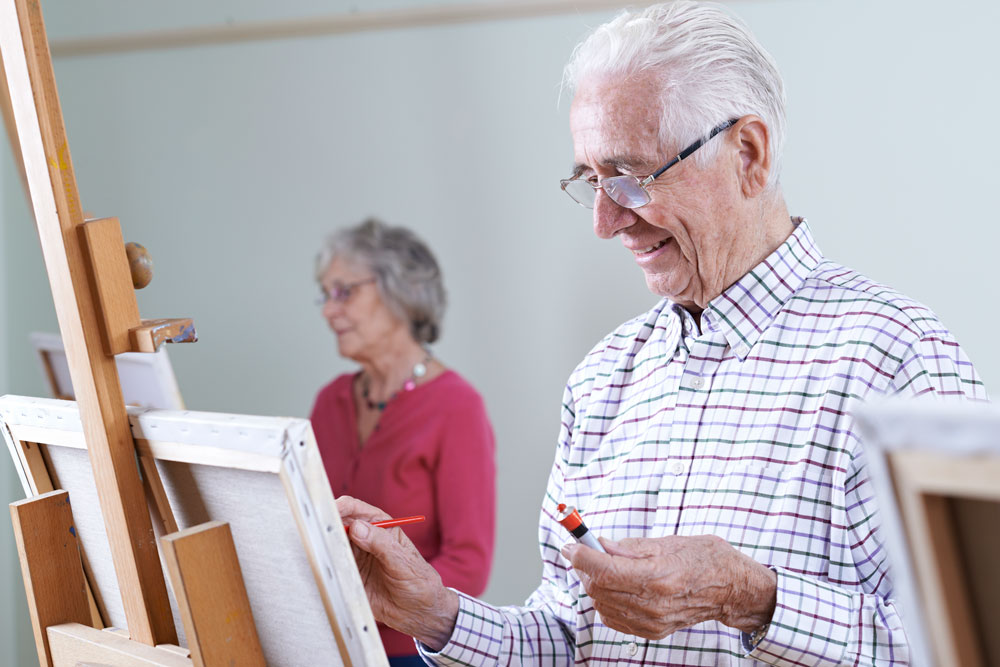
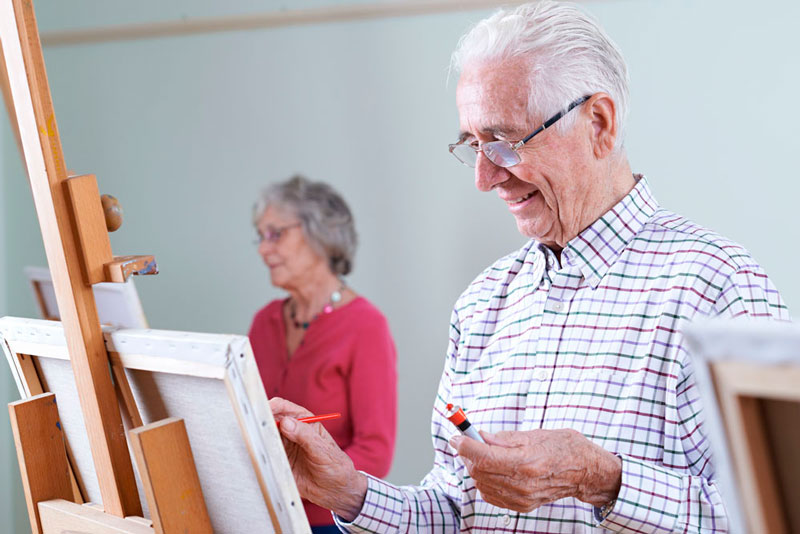
Smaller images and fixes

diff --git a/script.js b/script.js
@@ -96,10 +96,10 @@ function showCat7() {
 
 // Create events and load into localStorage if empty
 
-function createEvents() {
+function createEvents(number) {
   console.log("Creating events.");
   // Event data going to localStorage:
-  var event1 = [0,'Info-aften om det nye Kulturhus ved Filsø','Vrøgum får et nyt samlingspunkt. Kom med og hør, hvad planerne er for det nye Kulturhus ved Filsø.','long desc','assets/img/gl.skole.jpg',1550340000000,1550345400000,'Skovsalen',false,false,5,0,0];
+  var event1 = [0,'Info-aften om det nye Kulturhus ved Filsø','Vrøgum får et nyt samlingspunkt. Kom med og hør, hvad planerne er for det nye Kulturhus ved Filsø.','long desc','assets/img/vroegumglskole.jpg',1550340000000,1550345400000,'Skovsalen',false,false,5,0,0];
   var event2 = [1,'Hus og have-dag: Værkstedet','Vær med til at forvandle Vrøgum Gl. Skole til et skønt samlingssted for dig og dine naboer.','<p>Udviklingsudvalget i Vrøgum Borger- og Idrætsforening søger kvikke, hjælpende hænder til lettere istandsættelse og opfriskning af det nye Kulturhus ved Filsø &ndash; de dejlige bygninger, vi I dag kender som Vrøgum Gl. Skole.</p><p>Programmet for dagen er som følger:</p><ul><li>Kl. 8.30 i gymnastiksalen præsenterer vi vores vision og den praktiske plan for det nye Kulturhus ved Filsø.</li><li>Herefter fordeles alle frivillige hjælpere på de opgaver, der skal klares</p><p>Alle frivillige hjælpere får mad og forplejning dagen igennem. Vi serverer rundstykker med syltetøj og pålæg kl. 9.00 og æggekage med stegt flæsk og rugbrøg kl. 13.00. Dagen igennem er der fri vand og kaffe til de arbejdende.</p><p>Tusind tak for støtte og opbakning til dette spændende nye Kulturhus-projekt, der skal sikre at Vrøgum også i fremtiden forbliver Danmarks hyggeligste landsby.</p>','assets/img/kulturhuset-filsoe_hus-have-dag-02.jpg',1551511800000,1551535200000,'Kulturhuset',false,false,3,0,0];
   var event3 = [2,'Hus og have-dag: Forhaven','Vær med til at forvandle Vrøgum Gl. Skole til et skønt samlingssted for dig og dine naboer.','<p>Udviklingsudvalget i Vrøgum Borger- og Idrætsforening søger kvikke, hjælpende hænder til lettere istandsættelse og opfriskning af det nye Kulturhus ved Filsø &ndash; de dejlige bygninger, vi I dag kender som Vrøgum Gl. Skole.</p><p>Programmet for dagen er som følger:</p><ul><li>Kl. 8.30 i gymnastiksalen præsenterer vi vores vision og den praktiske plan for det nye Kulturhus ved Filsø.</li><li>Herefter fordeles alle frivillige hjælpere på de opgaver, der skal klares</p><p>Alle frivillige hjælpere får mad og forplejning dagen igennem. Vi serverer rundstykker med syltetøj og pålæg kl. 9.00 og æggekage med stegt flæsk og rugbrøg kl. 13.00. Dagen igennem er der fri vand og kaffe til de arbejdende.</p><p>Tusind tak for støtte og opbakning til dette spændende nye Kulturhus-projekt, der skal sikre at Vrøgum også i fremtiden forbliver Danmarks hyggeligste landsby.</p>','assets/img/kulturhuset-filsoe_hus-have-dag-01.jpg',1554532200000,1554555600000,'Kulturhuset',false,false,3,0,0];
   var event4 = [3,'Åbnings-bazar i det nye Kulturhus','Du inviteres hermed til åbningen af det nye Kulturhus ved Filsø. Vi fejrer dagen med en skøn udendørs bazar og en spændende konkurrence!','<p>Oplev dit nye kulturhus for første gang, og vær med til at skabe en uforglemmelig aften, når vi åbner dørene for Kulturhuset ved Filsø. Kom ti åbnings-bazar, hvor der vil være en masse spændende aktiviteter. Der stilles madboder op, litervis af kaffe til de voksne og saft til børnene og utallige udendørsspil!</p><p>Udover dette vil der være en konkurrence med en helt unik præmie. Konkurrencen vil blive annonceret på dagen, men 1. præmien vil du absolut ikke gå glip af!</p><p>Intet mindre end en unik oplevelse i en tur med en luftballon! Så kom og deltag i konkurrencen eller kig på, når vi sender vinderen afsted i vejret!</p>','assets/img/kulturhuset-filsoe_aabnings-bazar.jpg',1556362800000,1556373600000,'Ballonparken',false,false,5,];
@@ -122,7 +122,7 @@ function createEvents() {
   console.log(eventsArray);
 
   // Proceed to loading events:
-  loadEvents();
+  loadEvents(number);
 }
 
 // Check if events are in localStorage and create them if they are not
@@ -131,7 +131,7 @@ function checkEvents(number) {
   console.log("Running checkEvents function.");
   if (localStorage.getItem('events') == undefined) {
     console.log("Events DO NOT exist in localStorage. Will run createEvent function.");
-    createEvents();
+    createEvents(number);
   } else {
     console.log("Events exist in localStorage. Will run loadEvents function.");
     loadEvents(number);
@@ -145,8 +145,8 @@ function loadEvents(number) {
   var eventsString = localStorage.getItem('events');
   var eventsArray = [];
   eventsArray = JSON.parse(eventsString);
-  //console.log(eventsArray);
   var numberOfEvents = number;
+  
   console.log(numberOfEvents);
   if (numberOfEvents > eventsArray.length || numberOfEvents == undefined)  {
     numberOfEvents = eventsArray.length;
@@ -208,7 +208,7 @@ function loadEvents(number) {
     }
 
     if (eventFav == false) {
-      var favButtonClass = "none";
+      var favButtonClass = "green_button";
     } else if (eventFav == true) {
       var favButtonClass = "fav_button";
     }
@@ -282,7 +282,7 @@ function loadEvents(number) {
     var eventTimeToAndFrom = neatStartHours+":"+neatStartMinutes+" &ndash; "+neatEndHours+":"+neatEndMinutes;
 
     // Adding items to document:
-    eventHTML += '<div class="cat'+eventCatInt+'"><a href="visarrangement.html" data-id="'+eventId+'" onclick="setCurrentEvent('+eventId+')"><img src="'+eventPhoto+'"><div class="eventdate"><h4>'+eventDateFormatted+'</h4><p>'+eventTimeToAndFrom+'</p></div></a><div class="buttonholder"><a data-id="'+eventId+'" onclick="favThis('+eventId+')"><button id="favButton'+eventId+'" class="'+favButtonClass+'">Interesseret</button></a><a data-id="'+eventId+'" onclick="goingTo('+eventId+')"><button id="goingButton'+eventId+'" class="'+goingButtonClass+'">'+goingButtonText+'</button></a></div><h3>'+eventTitle+'</h3><p class="eventcat">'+eventCat+'</p><p>'+eventShortDesc+' <a href="visarrangement.html" data-id="'+eventId+' "onclick="setCurrentEvent('+eventId+')">Læs mere</a></p></div>';
+    eventHTML += '<div class="cat'+eventCatInt+'"><a href="visarrangement.html" data-id="'+eventId+'" onclick="setCurrentEvent('+eventId+')"><img src="'+eventPhoto+'"><div class="eventdate"><h4>'+eventDateFormatted+'</h4><p>'+eventTimeToAndFrom+'</p></div></a><div class="buttonholder"><a data-id="'+eventId+'" onclick="favThis('+eventId+')" id="favButton'+eventId+'" class="'+favButtonClass+'">Interesseret</a><a data-id="'+eventId+'" onclick="goingTo('+eventId+')" id="goingButton'+eventId+'" class="'+goingButtonClass+'">'+goingButtonText+'</a></div><h3>'+eventTitle+'</h3><p class="eventcat">'+eventCat+'</p><p>'+eventShortDesc+' <a href="visarrangement.html" data-id="'+eventId+' "onclick="setCurrentEvent('+eventId+')">Læs mere</a></p></div>';
   }
   document.getElementById("eventholder").innerHTML = eventHTML;
   showGoingandFavs();
@@ -514,7 +514,7 @@ function showCurrentEvent() {
 
   var eventFavClass;
   if (eventFav == false) {
-    eventFavClass = "none";
+    eventFavClass = "green_button";
   } else if (eventFav == true) {
     eventFavClass = "fav_button";
   }
@@ -635,8 +635,8 @@ function showCurrentEvent() {
   // Posting data to the document
   document.getElementById('favButton').id = "favButton" + eventId;
   document.getElementById('goingButton').id = "goingButton" + eventId;
-  document.getElementById('favlink').setAttribute("onClick", "favThis("+eventId+")");
-  document.getElementById('goinglink').setAttribute("onClick", "goingTo("+eventId+")");
+  document.getElementById('favButton'+eventId).setAttribute("onClick", "favThis("+eventId+")");
+  document.getElementById('goingButton'+eventId).setAttribute("onClick", "goingTo("+eventId+")");
   document.getElementById('eventtitle').innerHTML = eventTitle;
   document.getElementById('shortdesc').innerHTML = eventShortDesc;
   document.getElementById('longdesc').innerHTML = eventLongDesc;
@@ -695,7 +695,7 @@ function favThis(id) {
   } else if (eventsArray[id][9] == true) {
     console.log("true to false");
     eventsArray[id][9] = false;
-    document.getElementById("favButton"+id).className = "none";
+    document.getElementById("favButton"+id).className = "green_button";
     var newEventsString = JSON.stringify(eventsArray);
     localStorage.setItem('events',newEventsString);
   }

diff --git a/index.html b/index.html
@@ -3,9 +3,9 @@
   <head>
     <meta charset="utf-8">
     <meta name="robots" content="noindex, nofollow">
-    <meta name="description" content="Kultuhuset ved Filsø, placeret i Vrøgum, Danmarks mest natuskønne landsby.">
+    <meta name="description" content="Kultuhuset ved Filsø, placeret i Vrøgum, Danmarks mest naturskønne landsby. Hvor fællesskab, natur og hygge er i centrum.">
     <meta name="keywords" content="Fællesskab, skov, natur, vrøgum, øster vrøgum, filsø, fiskesø, ballonpark, park, løb, kulturhus, sydvestjylland, jylland, bo i jylland, oplevelser i jylland, varde kommune, station, legeplads, klitplantage, vrøgum plantage, vrøgum løbet">
-    <title>Kulturhuset ved Filsø</title>
+    <title>Kulturhuset ved Filsø | I Vrøgum, Danmarks hyggeligste landsby med skov, natur og fællesskab. Få nye oplevelser med hinanden.</title>
     <link rel="icon" type="image/png" href="assets/kulturhuset-ved-filsoe_logo_bomaerke.png"/>
     <link href="assets/styles.css" rel="stylesheet" type="text/css">
 		<link href="https://fonts.googleapis.com/css?family=Montserrat:700%7CSource+Sans+Pro:300" rel="stylesheet">

diff --git a/visarrangement.html b/visarrangement.html
@@ -62,16 +62,16 @@
 					<div>
 						<h1 id="eventtitle">Arrangementtitel</h1>
 						<p id="eventcat">Kategori</p>
-						<h2 id="shortdesc"></h2>
+						<h2 id="shortdesc">Kort beskrivelse af arrangement</h2>
 						<div id="longdesc"></div>
 						<div><a href="" class="facebookeventshare"><img src="assets/fb_icon.png" alt="Facebook icon"><span>Del event på Facebook</span></a></div>
 					</div>
-					<div>
+					<div id="orderfirst">
 						<img id="eventphoto" src="assets/img/kulturhuset-filsoe_faellesspisning-ballonparken.jpg" alt="Event billede">
 						<div id="infobox"></div>
 						<div class="buttonholder">
-							<a href="#" onclick="favThis()" id="favlink"><button class="none" id="favButton">Interesseret</button></a>
-							<a href="#" onclick="goingTo()" id="goinglink"><button class="red_button" id="goingButton">Tilmeld</button></a>
+							<a onclick="favThis()" class="green_button" id="favButton">Interesseret</a>
+							<a onclick="goingTo()" class="red_button" id="goingButton">Tilmeld</a>
 						</div>
 					</div>
 				</div>

diff --git a/omvroegum.html b/omvroegum.html
@@ -11,6 +11,7 @@
 		<link href="https://fonts.googleapis.com/css?family=Montserrat:700%7CSource+Sans+Pro:300" rel="stylesheet">
     <link rel="canonical" href="https://ninabergchristensen.github.io/kulturhusweb/omvroegum.html" />
     <meta name="viewport" content="width=device-width, initial-scale=1.0">
+    <script src="script.js"></script>
   </head>
   <body>
     <header>
@@ -73,7 +74,7 @@
             <p>Vrøgum by er en naturskøn landsby, med en masse historie bag. Vores lille landsby er placeret 10km øst for Vesterhavet i det hyggelige Sydvestjylland... <a href="https://www.facebook.com/groups/vboif/about/">Læs mere</a></p>
             <div>
               <a href="https://www.facebook.com/groups/vboif/about/" rel="external nofollow">
-                <img src="assets/img/gl.skole.jpg" style="width:100%;height:250px" alt="den Gl. Skole i Vrøgum">
+                <img src="assets/img/vroegumglskole.jpg" style="width:100%;height:250px" alt="den Gl. Skole i Vrøgum">
               </a>
             </div>
           </div>

diff --git a/assets/styles.css b/assets/styles.css
@@ -75,7 +75,7 @@ p a:hover {
    Buttons
 -------------------------------------------------------------*/
 
-button {
+button, .fav_button, .going_button, .green_button, .red_button {
 	background-color: #25A18E;
     border: none;
     color: #fff;
@@ -91,7 +91,7 @@ button {
 	border: 2px solid #25A18E;
 }
 
-button:hover {
+button:hover, .fav_button:hover, .going_button:hover, .green_button:hover, .red_button:hover {
 	background-color: #fff;
     color: #25A18E;
 }
@@ -1078,7 +1078,11 @@ footer.flex>div {
 		min-width: 100%;
 	}
 
-	#title {
+	#title, #os {
 		display: none;
+	}
+
+	#orderfirst {
+		order: -1;
 	}
 }

diff --git a/arrangementer.html b/arrangementer.html
@@ -62,8 +62,6 @@
 		<main>
 			<section>
 				<h2>Oplevelser bliver større, når de deles.</h2>
-			</section>
-			<section>
 				<div id="sortbycategory">
 					<label class="checkbox" onclick="showCat1()">Sport og motion
 						<input type="checkbox" checked="checked" onclick="showCat1()">
